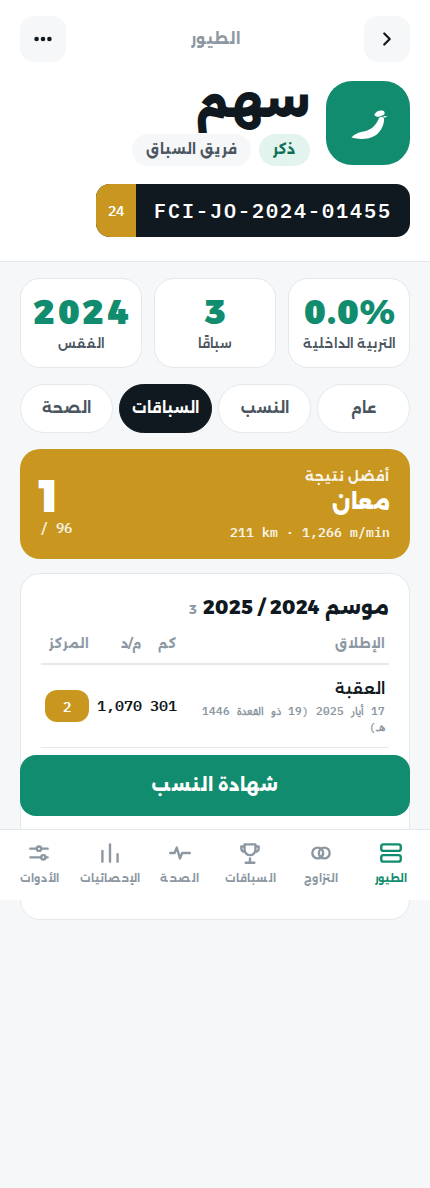
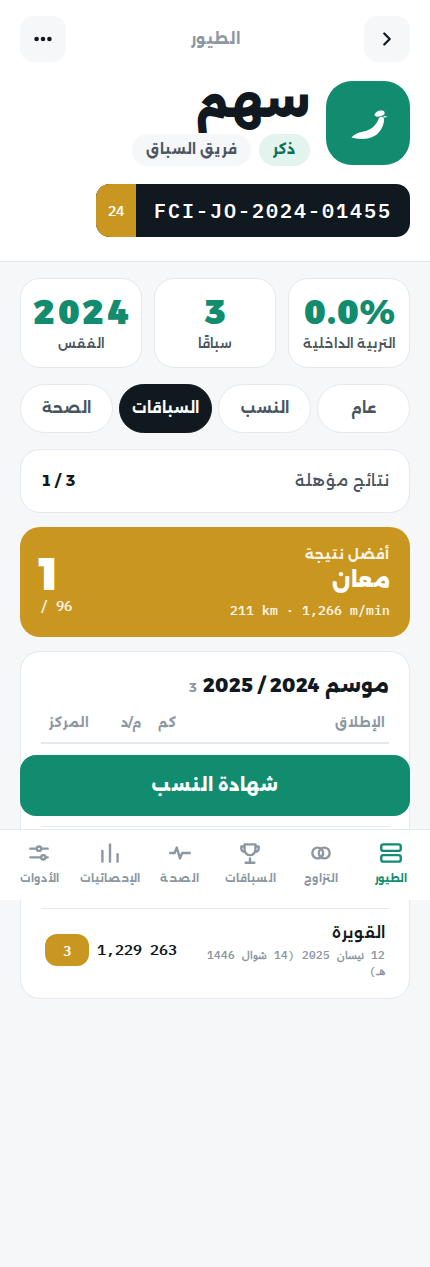
feat(next): apply the 4A acceptance rulings
NAV: nav.breeding renamed to the spec word in i18n.ext.js (deliberate rename
from vanilla's «التربية»); Nav.tsx labels now come from the dictionary.

6. SEASON: one display rule — src/components/season.ts (split-year, 1 July
turnover). Profile race tables and the loft-home eyebrow read it; breeding's
stored `season` stays vanilla's plain year.

8. MEDIA: vanilla's per-photo delete carried into the gallery — a small
danger ✕ on each tile → «تأكيد الحذف؟» → deleteMedia → undo restores
(bird-detail.js:233). Cover photo stays dropped.

10. NOTES: vanilla's add-note in the spec's notes card, saved through
saveBird (a failed validation toasts, never silently drops the note). FCI
per-bird line «نتائج مؤهلة: n / total» as one row at the top of the races
tab (bird-detail.js:131).

13. Mini-tree plate: smaller mono face at ≤430 so real ring lengths fit
(spec-vs-real-data, recorded in the module).

14. OWNERSHIP (kit over spec): the «الخارجية فقط» pill and the «خارجي» row
marker on loft home (birds.js:37, :102). Synonyms/plurals: vanilla wins;
the spec variants that a ruling settled moved from strings.pending.json to
strings.ruled.json — a new guard category accepted silently with the ruling
as the record. Still pending: the spelled-out COI line and the generic
photo-tile label.

Tests: loft_home.py 31 (ownership#5 ×2, ruling 6 eyebrow) · bird_profile.py
38 (ruling 8 ×3, ruling 10 ×2, ruling 6 season labels from the bird's own
[…]

Changed region(s): [[0.0302, 0.0311, 0.9674, 0.7786], [0.4837, 0.7475, 0.5442, 0.7786]]

diff --git a/app/bird/view.tsx b/app/bird/view.tsx
@@ -7,7 +7,8 @@ import { useZajilStore, selectBird, useMediaForBird } from '@/src/db/react';
 import { t, fmtDate, fmtNum, fmtPercent, statusLabel } from '@/src/i18n.ext.js';
 import { inbreeding, ancestorLoss } from '@/src/engine/coi.js';
 import { descendantDepths, pedigreeGrid } from '@/src/engine/pedigree.js';
-import { SyncRow, Loading, MediaPlaceholder, COIValue, BirdLabel, primaryRing, birdLabelText, toast, undoToast, confirmDialog } from '@/src/components';
+import { birdEligibility } from '@/src/engine/fci.js';
+import { SyncRow, Loading, MediaPlaceholder, COIValue, BirdLabel, primaryRing, birdLabelText, toast, undoToast, confirmDialog, seasonStart } from '@/src/components';
 import sh from '@/src/components/shared.module.css';
 import s from './bird.module.css';
 
@@ -33,11 +34,7 @@ const TABS: Array<[Tab, string]> = [['over', 'tab.overview'], ['ped', 'tab.pedig
 const getBird = (id: string) => db.getBird(id) as Bird | undefined;
 const byDateDesc = <T extends { date?: string }>(a: T, b: T) => (b.date || '').localeCompare(a.date || '');
 
-// Season of a race: turns over in July. Interim — the spec's own tables put
-// January–March races in the season that began the previous year; the rule
-// itself is not written anywhere (raised in the 4A report, with loft-home's
-// eyebrow which currently uses the calendar year).
-const seasonOf = (iso?: string) => { const y = +(iso || '').slice(0, 4); if (!y) return 0; return +(iso || '').slice(5, 7) >= 7 ? y : y - 1; };
+// Season of a race: the one display rule (src/components/season.ts, ruled at 4A acceptance).
 // Ruling 4 (4.0): next vaccination = most recent vaccination event + 365 days, labelled an estimate, hidden when none.
 const plus365 = (iso: string) => { const d = new Date(iso + 'T00:00:00'); d.setDate(d.getDate() + 365); return `${d.getFullYear()}-${String(d.getMonth() + 1).padStart(2, '0')}-${String(d.getDate()).padStart(2, '0')}`; };
 // Plate season badge = the two last digits of the primary ring's year (the spec's «24» beside JOR 24 17352).
@@ -57,6 +54,7 @@ export default function BirdView() {
   const [tab, setTab] = useState<Tab>(want && TABS.some(([k]) => k === want) ? want : 'over');
   const [booted, setBooted] = useState(false);
   const [menu, setMenu] = useState(false);
+  const [noteText, setNoteText] = useState('');
   useEffect(() => { db.initDB().then(() => setBooted(true)); }, []);
   const bird = useZajilStore(selectBird(id)) as Bird | null;
   const st = useZajilStore((x) => x);
@@ -120,6 +118,19 @@ export default function BirdView() {
       downloadJSON(payload, `zajil-bird-${ring.replace(/[^\w-]+/g, '_') || id.slice(0, 8)}.json`); toast(t('toast.exported'), { kind: 'success' });
     });
   }
+  // bird-detail.js:233 — per-photo delete with undo (ruling 8: a capability the spec's silence does not remove)
+  async function delMedia(m: Media) {
+    const ok = await confirmDialog({ title: t('confirm.deleteGeneric'), cancelLabel: t('act.cancel'), confirmLabel: t('act.delete'), confirmKind: 'danger' });
+    if (!ok) return;
+    const snap = await db.deleteMedia(m.id);
+    undoToast(t('toast.deleted'), t('act.undo'), async () => { if (!snap) return; await db.restoreMedia(snap); toast(t('toast.undone'), { kind: 'success' }); });
+  }
+  // bird-detail.js:189 — add a note through the write boundary (ruling 10: data entry must not be lost)
+  async function addNote() {
+    const text = noteText.trim(); if (!text) return;
+    const copy = { ...bird!, notes: [...(bird!.notes || []), { id: db.uuid(), at: db.nowISO(), text }] };
+    try { await db.saveBird(copy); setNoteText(''); } catch { toast(t('toast.saveFailed'), { kind: 'error' }); }
+  }
 
   // ── pedigree tab data ──
   const gens = pedigreeGrid(getBird, id, 2) as Slot[][];
@@ -142,7 +153,8 @@ export default function BirdView() {
   // ── races tab data ──
   const best = results.filter((r) => r.position && r.position >= 1).sort((a, b) => (a.position! - b.position!) || byDateDesc(a, b))[0];
   const seasons = new Map<number, Race[]>();
-  for (const r of results) { const sy = seasonOf(r.date); (seasons.get(sy) ?? seasons.set(sy, []).get(sy)!).push(r); }
+  for (const r of results) { const sy = seasonStart(r.date || ''); (seasons.get(sy) ?? seasons.set(sy, []).get(sy)!).push(r); }
+  const elig = birdEligibility(bird, results) as { hasRing: boolean; qualifyingResults: unknown[] };   // bird-detail.js:131 — one row in the races tab (ruling 10)
   const seasonList = [...seasons.entries()].sort((a, b) => b[0] - a[0]);
   const raceLabel = (r: Race) => r.releasePoint?.name || r.raceName || t('raceType.' + (r.raceType || 'training'));
 
@@ -234,10 +246,15 @@ export default function BirdView() {
               <h2>{t('bird.photos')} <span className={s.cnt}>{fmtNum(media.length)}</span></h2>
               {media.length === 0 ? <p className={sh.muted}>{t('common.none')}</p> : (
                 <div className={s.gal} data-testid="gallery">
-                  {media.map((m) => !m.hasBlob ? <MediaPlaceholder key={m.id} kind={m.kind === 'photo' ? 'photo' : 'file'} filename={m.name} />
-                    : !urls[m.id] ? <div key={m.id} className={s.ph} />
-                    : m.kind === 'photo' ? <div key={m.id} className={`${s.ph} ${s.img}`} data-testid="media-photo"><img src={urls[m.id]} alt={t('photo.' + (m.subtype || 'other'))} loading="lazy" /><span>{m.name}</span></div>
-                    : <a key={m.id} className={`${s.ph} ${s.img}`} href={urls[m.id]} download={m.name || 'document'} data-testid="media-file">📄<span>{m.name || 'document'}</span></a>)}
+                  {media.map((m) => (
+                    <div key={m.id} className={s.phwrap} data-testid="media-tile">
+                      {!m.hasBlob ? <MediaPlaceholder kind={m.kind === 'photo' ? 'photo' : 'file'} filename={m.name} />
+                        : !urls[m.id] ? <div className={s.ph} />
+                        : m.kind === 'photo' ? <div className={`${s.ph} ${s.img}`} data-testid="media-photo"><img src={urls[m.id]} alt={t('photo.' + (m.subtype || 'other'))} loading="lazy" /><span>{m.name}</span></div>
+                        : <a className={`${s.ph} ${s.img}`} href={urls[m.id]} download={m.name || 'document'} data-testid="media-file">📄<span>{m.name || 'document'}</span></a>}
+                      <button type="button" className={s.del} aria-label={t('act.delete')} onClick={() => delMedia(m)} data-testid="media-delete">✕</button>
+                    </div>
+                  ))}
                 </div>
               )}
             </div>
@@ -263,7 +280,11 @@ export default function BirdView() {
           <div className={s.card} data-testid="notes">
             <h2>{t('common.notes')}</h2>
             {(bird.notes || []).length === 0 ? <p className={sh.muted}>{t('common.none')}</p>
-              : [...(bird.notes || [])].sort((a, b) => (b.at || '').localeCompare(a.at || '')).map((n, i) => <p key={n.id || i} className={s.prose}><span className={sh.muted}>{fmtDate(n.at, { withTime: true })} — </span><bdi>{n.text}</bdi></p>)}
+              : [...(bird.notes || [])].sort((a, b) => (b.at || '').localeCompare(a.at || '')).map((n, i) => <p key={n.id || i} className={s.prose} data-testid="note"><span className={sh.muted}>{fmtDate(n.at, { withTime: true })} — </span><bdi>{n.text}</bdi></p>)}
+            <div className={s.noteform}>
+              <textarea rows={2} value={noteText} onChange={(e) => setNoteText(e.target.value)} aria-label={t('bird.addNote')} data-testid="note-input" />
+              <button type="button" className={`${sh.btn} ${sh.save}`} onClick={addNote} disabled={!noteText.trim()} data-testid="note-add">+ {t('bird.addNote')}</button>
+            </div>
           </div>
         </section>
 
@@ -317,6 +338,9 @@ export default function BirdView() {
         </section>
 
         <section className={s.panel} id="p-race" role="tabpanel" aria-labelledby="t-race" hidden={tab !== 'race'} data-testid="panel-race">
+          <div className={s.card} data-testid="fci-row"><div className={s.rows}>
+            <div className={s.row}><span className={s.k}>{t('fci.qualifying')}</span><span className={`${s.v} ${s.data}`}>{fmtNum(elig.qualifyingResults.length)} / {fmtNum(results.length)}</span></div>
+          </div></div>
           {results.length === 0 ? <div className={s.card}><p className={sh.muted}>{t('race.noRaces')}</p></div> : (
             <>
               {best && (

diff --git a/app/birds/view.tsx b/app/birds/view.tsx
@@ -5,7 +5,7 @@ import * as db from '@/src/db.js';
 import { useZajilStore, selectBirds } from '@/src/db/react';
 import { t, fmtNum, statusLabel } from '@/src/i18n.ext.js';
 import { ringKey } from '@/src/engine/rings.js';
-import { SyncRow, Empty, toast, primaryRing } from '@/src/components';
+import { SyncRow, Empty, toast, primaryRing, seasonLabel } from '@/src/components';
 import sh from '@/src/components/shared.module.css';
 import s from './birds.module.css';
 
@@ -63,6 +63,7 @@ export default function BirdsView() {
     if (qq) { const rk = ringKey(qq); rs = rs.filter((r) => searchText(r.b).includes(qq) || (rk && (r.b.rings || []).some((x) => ringKey(x as never).includes(rk)))); }
     if (filter === 'm' || filter === 'f') rs = rs.filter((r) => r.sexK === filter);
     if (filter === 'race' || filter === 'breed') rs = rs.filter((r) => r.stK === filter);
+    if (filter === 'ext') rs = rs.filter((r) => !!r.b.external);          // birds.js:37 — ruling 14 (4A): kit over spec
     if (year) rs = rs.filter((r) => r.year === year);
     return rs;
   }, [rows, q, filter, year]);
@@ -75,7 +76,6 @@ export default function BirdsView() {
 
   const m = rows.filter((r) => r.sexK === 'm').length, f = rows.filter((r) => r.sexK === 'f').length;
   const loft = db.currentLoft() as { name?: string } | null;
-  const yr = new Date().getFullYear();   // season eyebrow: year / year+1, the same source as breeding's season default (interim; spec silent on the rule)
   const empty = booted && rows.length === 0;
   const onSort = (k: SortKey) => { if (k === sortK) setDesc(!desc); else { setSortK(k); setDesc(k === 'year' || k === 'res'); } };
   const pill = (label: string, active: boolean, onClick: () => void, extra: Record<string, string> = {}) => (
@@ -84,13 +84,15 @@ export default function BirdsView() {
   const Plate = ({ ring }: { ring: string }) => <span className={s.plate}><span className={s.yr}>{ring.split(' ')[1] ?? ''}</span><span className={s.no}>{ring}</span></span>;
   const Sx = ({ k }: { k: Row['sexK'] }) => <span className={`${s.sx} ${s[k]}`} data-sex={k === 'm' ? 'cock' : k === 'f' ? 'hen' : 'unknown'} aria-label={t(sexKey[k])}><span className={s.g}>{sexIcon[k]}</span>{t(sexKey[k])}</span>;
   const St = ({ r }: { r: Row }) => <span className={`${s.st} ${s[r.stK]}`} data-testid="status-pill">{r.stLabel}</span>;
+  // birds.js:102 chip-ext — the external marker, ruled in at 4A acceptance (kit over spec: reference birds are a real feature)
+  const Ext = () => <span className={s.ext} data-testid="ext-tag">{t('bird.externalShort')}</span>;
   const Res = ({ r }: { r: Row }) => r.last ? <span className={s.res}><span className={`${s.pl} ${r.last.pl <= 10 ? s.top : ''}`}>{fmtNum(r.last.pl, { group: false })}</span><span className={s.w}>{r.last.w}</span></span> : <span className={`${s.res} ${s.none}`}>{t('race.noneShort')}</span>;
 
   return (
     <section className={s.screen}>
       <div className={s.lofthead}>
         <div className={s.headrow}>
-          <div><div className={s.eyebrow}>{t('loft.season', { a: yr, b: yr + 1 })}</div><h1>{loft?.name || t('loft.unnamed')}</h1>
+          <div><div className={s.eyebrow} data-testid="season-eyebrow">{seasonLabel()}</div><h1>{loft?.name || t('loft.unnamed')}</h1>
             <div className={s.count} data-testid="count-line">{empty ? t('empty.firstRun.title') : !booted ? '' : t('loft.countLine', { n: fmtNum(rows.length), m: fmtNum(m), f: fmtNum(f) })}</div></div>
           {!empty && booted && (
             <div className={s.tools}>
@@ -113,6 +115,7 @@ export default function BirdsView() {
             {pill(t('filter.females'), filter === 'f', () => { setFilter('f'); setYear(null); }, { 'data-filter': 'f' })}
             {pill(statusLabel('race team'), filter === 'race', () => { setFilter('race'); setYear(null); }, { 'data-filter': 'race' })}
             {pill(statusLabel('breeder'), filter === 'breed', () => { setFilter('breed'); setYear(null); }, { 'data-filter': 'breed' })}
+            {pill(t('filter.externalOnly'), filter === 'ext', () => { setFilter('ext'); setYear(null); }, { 'data-filter': 'ext' })}
             {years.map((y) => pill(y, year === y, () => { setYear(year === y ? null : y); setFilter('all'); }, { 'data-year': y }))}
           </div>
           <SyncRow />
@@ -122,7 +125,7 @@ export default function BirdsView() {
                 <div className={s.yearlbl} data-testid="year-label"><span className={s.y}>{t('loft.generation', { y })}</span><span className={s.c}>{fmtNum(rs.length)}</span></div>
                 {rs.map((r) => (
                   <Link key={r.b.id} href={`/bird?id=${r.b.id}`} className={`${s.brow} ${r.stK === 'gone' ? s.gone : ''}`} data-testid="bird-row">
-                    <span className={s.mid}><span className={s.nm}>{r.name || r.ring || r.b.id.slice(0, 8)}</span><span className={s.sub}>{r.ring && <Plate ring={r.ring} />}<Sx k={r.sexK} /><St r={r} /></span></span>
+                    <span className={s.mid}><span className={s.nm}>{r.name || r.ring || r.b.id.slice(0, 8)}</span><span className={s.sub}>{r.ring && <Plate ring={r.ring} />}<Sx k={r.sexK} /><St r={r} />{r.b.external && <Ext />}</span></span>
                     <svg className={s.chev} viewBox="0 0 24 24" aria-hidden="true"><path d="M15 6l-6 6 6 6" /></svg>
                   </Link>
                 ))}
@@ -140,7 +143,7 @@ export default function BirdsView() {
                 {sorted.map((r) => (
                   <tr key={r.b.id} tabIndex={0} className={r.stK === 'gone' ? s.gone : ''} data-testid="table-row" onClick={() => { window.location.href = `/bird?id=${r.b.id}`; }}>
                     <td className={s.ltr}>{r.ring ? <Plate ring={r.ring} /> : '—'}</td>
-                    <td className={s.nm} data-testid="cell-name">{r.name}</td>
+                    <td className={s.nm} data-testid="cell-name">{r.name}{r.b.external && <> <Ext /></>}</td>
                     <td><Sx k={r.sexK} /></td>
                     <td><St r={r} /></td>
                     <td className={`${s.yr} ${s.ltr}`}>{r.year}</td>

diff --git a/components/Nav.tsx b/components/Nav.tsx
@@ -1,41 +1,44 @@
 'use client';
 import Link from 'next/link';
 import { usePathname } from 'next/navigation';
+import { t } from '@/src/i18n.ext.js';
 import s from './Nav.module.css';
 
 /**
  * The six ruled destinations — kit v3.1 NAVIGATION NOTE, RULED 2026-09-02.
  * No home tab, no sign-in tab. Icons are the spec's own SVG paths, verbatim.
+ * Labels come from the dictionary (nav.*); nav.breeding is the ruled rename
+ * «التزاوج» carried by i18n.ext.js, so the shell and every screen agree.
  *
  * `owns` lists the record routes that light a tab, mirroring the vanilla
  * router (js/app.js:119): a bird, its pedigree and its certificate belong to
  * الطيور; a pair belongs to التزاوج.
  */
 const TABS = [
-  { href: '/birds',    owns: ['/bird', '/pedigree', '/cert'], label: 'الطيور',
+  { href: '/birds',    owns: ['/bird', '/pedigree', '/cert'], label: 'nav.birds',
     icon: <><rect x="3" y="4" width="18" height="6" rx="2"/><rect x="3" y="14" width="18" height="6" rx="2"/></> },
-  { href: '/breeding', owns: ['/pair'], label: 'التزاوج',
+  { href: '/breeding', owns: ['/pair'], label: 'nav.breeding',
     icon: <><circle cx="9" cy="12" r="5"/><circle cx="15" cy="12" r="5"/></> },
-  { href: '/races',    owns: [], label: 'السباقات',
+  { href: '/races',    owns: [], label: 'nav.races',
     icon: <path d="M8 21h8M12 17v4M7 4h10v5a5 5 0 0 1-10 0zM7 6H4v2a3 3 0 0 0 3 3M17 6h3v2a3 3 0 0 1-3 3"/> },
-  { href: '/health',   owns: [], label: 'الصحة',
+  { href: '/health',   owns: [], label: 'nav.health',
     icon: <path d="M3 12h4l2-5 3 10 2-5h7"/> },
-  { href: '/stats',    owns: [], label: 'الإحصائيات',
+  { href: '/stats',    owns: [], label: 'nav.stats',
     icon: <path d="M5 20V10M12 20V4M19 20v-7"/> },
-  { href: '/tools',    owns: [], label: 'الأدوات',
+  { href: '/tools',    owns: [], label: 'nav.tools',
     icon: <><path d="M4 8h6M14 8h6M4 16h10M18 16h2"/><circle cx="12" cy="8" r="2"/><circle cx="16" cy="16" r="2"/></> },
 ];
 
-function isOn(pathname: string, t: (typeof TABS)[number]) {
-  return pathname === t.href || pathname.startsWith(t.href + '/') ||
-    t.owns.some((p) => pathname === p || pathname.startsWith(p + '/'));
+function isOn(pathname: string, tab: (typeof TABS)[number]) {
+  return pathname === tab.href || pathname.startsWith(tab.href + '/') ||
+    tab.owns.some((p) => pathname === p || pathname.startsWith(p + '/'));
 }
 
 export default function Nav() {
   const pathname = usePathname() ?? '';
-  const items = TABS.map((t) => (
-    <Link key={t.href} href={t.href} className={isOn(pathname, t) ? s.on : undefined}>
-      <svg viewBox="0 0 24 24" aria-hidden="true">{t.icon}</svg>{t.label}
+  const items = TABS.map((tab) => (
+    <Link key={tab.href} href={tab.href} className={isOn(pathname, tab) ? s.on : undefined}>
+      <svg viewBox="0 0 24 24" aria-hidden="true">{tab.icon}</svg>{t(tab.label)}
     </Link>
   ));
   return (

diff --git a/app/bird/bird.module.css b/app/bird/bird.module.css
@@ -191,3 +191,16 @@
 /* vanilla rings (FCI-JO-2023-00871) are longer than the spec's mock (JOR 24 17352): the plate keeps one line and clips */
 .plate .num{ white-space:nowrap; overflow:hidden; text-overflow:ellipsis; min-width:0; }
 .n1 .plate{ max-width:100%; }
+/* ruling 8 (4A acceptance): vanilla's per-photo delete — a small danger affordance on the tile */
+.phwrap{ position:relative; min-width:0; }
+.phwrap > *:first-child{ width:100%; }
+.del{ position:absolute; top:6px; inset-inline-end:6px; width:28px; height:28px; border:none; border-radius:999px; background:var(--surface); color:var(--danger); font-weight:900; font-size:13px; cursor:pointer; display:grid; place-items:center; box-shadow:inset 0 0 0 1px var(--line); }
+/* ruling 10 (4A acceptance): vanilla's add-note inside the spec's notes card */
+.noteform{ display:flex; flex-direction:column; gap:10px; margin-top:14px; }
+.noteform textarea{ width:100%; border:2px solid var(--line); border-radius:var(--r-btn); padding:12px 14px; font-family:var(--f); font-size:15px; resize:vertical; background:var(--page); color:var(--ink); }
+.noteform textarea:focus{ outline:none; border-color:var(--brand); background:var(--surface); }
+/* ruling 13 (4A acceptance): real rings (JO-2026-12345) are longer than the spec's mock — a smaller plate face at phone width; spec-vs-real-data */
+@media (max-width:430px){
+  .n1 .plate .num{ font-size:10px; letter-spacing:0; padding:5px 7px; }
+  .n1 .plate .season{ font-size:9px; padding:0 5px; }
+}

diff --git a/src/components/season.ts b/src/components/season.ts
@@ -1,0 +1,20 @@
+import { t } from '@/src/i18n.ext.js';
+
+// ONE season rule, everywhere a season is DISPLAYED (ruled at 4A acceptance,
+// item 6): split-year «2026 / 2027», turning over on 1 July. Profile race
+// tables, the loft-home eyebrow, races and stats all read these. Breeding's
+// stored `season` field stays vanilla's plain year — data, not display.
+
+/** Start year of the season a date falls in; 0 when the date is unusable. */
+export function seasonStart(d: string | Date = new Date()): number {
+  const dt = typeof d === 'string' ? new Date(d.slice(0, 10) + 'T00:00:00') : d;
+  if (isNaN(dt.getTime())) return 0;
+  const y = dt.getFullYear();
+  return dt.getMonth() + 1 >= 7 ? y : y - 1;
+}
+
+/** «موسم 2026 / 2027» for the season a date falls in (today by default). */
+export function seasonLabel(d?: string | Date): string {
+  const a = seasonStart(d);
+  return a ? t('loft.season', { a, b: a + 1 }) : '—';
+}

diff --git a/src/i18n.ext.js b/src/i18n.ext.js
@@ -83,6 +83,12 @@ export const EXT = {
   'col.release':              { ar: 'الإطلاق', en: 'Release' },
   'health.next':              { ar: 'التطعيم القادم', en: 'Next vaccination' },
   'health.next.estimate':     { ar: 'تقديري — سنة من آخر تطعيم', en: 'Estimate — one year after the last vaccination' },
+
+  // ── rulings at 4A acceptance ──
+  // nav.breeding: a DELIBERATE RENAME from vanilla's «التربية». Every approved
+  // spec and the kit NAVIGATION NOTE say «التزاوج»; ruled at 4A acceptance.
+  // EXT wins over the vanilla dictionary, so every t('nav.breeding') follows.
+  'nav.breeding':             { ar: 'التزاوج', en: 'Breeding' },
 };
 
 function interpolate(s, params) {

diff --git a/app/birds/birds.module.css b/app/birds/birds.module.css
@@ -134,3 +134,5 @@ tr.gone td.nm{ color:var(--ink-3); }
 .table{ display:block; }
 .empty{ padding-top:64px; }
 }
+/* ruling 14 (4A acceptance): the external marker — vanilla's chip-ext (birds.js:102) carried into the spec's row; kit over spec */
+.ext{ display:inline-flex; align-items:center; height:30px; padding:0 10px; border-radius:999px; font-size:12px; font-weight:800; white-space:nowrap; background:var(--page); color:var(--ink-3); border:1px dashed var(--ink-3); }

diff --git a/src/components/index.ts b/src/components/index.ts
@@ -7,3 +7,4 @@ export { default as Field } from './Field';
 export { default as Notice } from './Notice';
 export { default as MediaPlaceholder } from './MediaPlaceholder';
 export { BirdLabel, SexChip, COIValue, Plate, primaryRing, birdLabelText, sexIcon } from './BirdBits';
+export { seasonStart, seasonLabel } from './season';

diff --git a/tests/e2e/screens/bird_profile.py b/tests/e2e/screens/bird_profile.py
@@ -60,10 +60,22 @@ try:
         # ── overview: verified notice, gallery with the elsewhere placeholder, basics, notes read-only ──
         check('«سجل موثق» notice present', 'سجل موثق' in pg.locator('[data-testid=verified-notice]').inner_text())
         check('gallery shows the blobless photo as «الصورة على جهاز آخر»', pg.locator('[data-testid=gallery] [data-testid=media-elsewhere]').count() == 1)
+        # ruling 8 (4A acceptance): per-photo delete with undo (bird-detail.js:233)
+        pg.click('[data-testid=media-tile] [data-testid=media-delete]'); pg.wait_for_timeout(150)
+        check('[ruling 8] tile ✕ asks «تأكيد الحذف؟»', 'تأكيد الحذف' in pg.locator('[data-testid=dialog]').inner_text())
+        pg.click('[data-testid=dialog-confirm]'); pg.wait_for_timeout(400)
+        check('[ruling 8] the media row is gone from the gallery and the store', pg.locator('[data-testid=media-tile]').count() == 0 and pg.evaluate("async (id) => (await window.__zajilDb.mediaForBird(id)).length", ids['barq']) == 0)
+        pg.click('[data-testid=toast-action]'); pg.wait_for_timeout(400)
+        check('[ruling 8] undo restores the row into the gallery', pg.locator('[data-testid=media-tile] [data-testid=media-elsewhere]').count() == 1)
+        pg.wait_for_timeout(4500)   # let the confirmation toast expire before the screenshots
         rows = pg.locator('[data-testid=basics] [data-testid^=row-]').count()
         check('basic details rows (loft · colour · hatch · sire · dam · added)', rows >= 5, rows)
         check('sire / dam are links to their profiles', pg.locator('[data-testid=row-sire] a').get_attribute('href').startswith('/bird?id=') and pg.locator('[data-testid=row-dam] a').get_attribute('href').startswith('/bird?id='))
-        check('notes card is read-only on the profile (spec) — no add-note control', pg.locator('[data-testid=notes]').count() == 1 and pg.locator('[data-testid=notes] textarea').count() == 0)
+        # ruling 10 (4A acceptance): vanilla's add-note carried into the spec's notes card — saved through the write boundary
+        n_notes = pg.locator('[data-testid=note]').count()
+        pg.fill('[data-testid=note-input]', 'ملاحظة اختبار — من البروفايل'); pg.click('[data-testid=note-add]'); pg.wait_for_timeout(400)
+        saved = pg.evaluate("(id) => (window.__zajilDb.getBird(id).notes || []).some(n => n.text === 'ملاحظة اختبار — من البروفايل')", ids['barq'])
+        check('[ruling 10] add-note appends to bird.notes and the card re-renders', saved and pg.locator('[data-testid=note]').count() == n_notes + 1 and pg.locator('[data-testid=note-input]').input_value() == '', pg.locator('[data-testid=note]').count())
         for w in (430, 900, 1400):
             pg.set_viewport_size({'width': w, 'height': 900}); pg.wait_for_timeout(150); pg.screenshot(path=f'{FID}/overview-{w}.png', full_page=True)
         pg.set_viewport_size({'width': 430, 'height': 900})
@@ -88,6 +100,14 @@ try:
         racer = h.evaluate("() => { const db = window.__zajilDb; const n = new Map(); for (const r of db.state.raceResults.values()) n.set(r.birdId, (n.get(r.birdId) || 0) + 1); return [...n.entries()].sort((a, b) => b[1] - a[1])[0]; }")
         pg.goto(f"{ROOT}bird.html?id={racer[0]}&tab=race", wait_until='load'); pg.wait_for_selector('[data-testid=race-best]', timeout=6000)
         check('races tab (bird with results): best result + ≥1 season table, ranks as pills', pg.locator('[data-testid=season-card]').count() >= 1 and pg.locator('[data-testid=race-row]').count() == racer[1], racer[1])
+        # ruling 6: one season rule — split-year label with the 1 July turnover, computed here from the bird's own result dates
+        exp = pg.evaluate("(id) => { const s = new Set(); for (const r of window.__zajilDb.state.raceResults.values()) if (r.birdId === id && r.date) { const y = +r.date.slice(0, 4), m = +r.date.slice(5, 7); s.add(m >= 7 ? y : y - 1); } return [...s].sort((a, b) => b - a); }", racer[0])
+        heads = [h.strip() for h in pg.locator('[data-testid=season-card] h2').all_inner_texts()]
+        check('[ruling 6] season cards labelled «موسم a / a+1» by the July rule, newest first', [h.split()[1] for h in heads] == [str(a) for a in exp], heads)
+        # ruling 10: the FCI per-bird line as one row in the races tab (bird-detail.js:131)
+        q = pg.evaluate("(id) => { const db = window.__zajilDb, e = window.__zajilEngine; const rs = [...db.state.raceResults.values()].filter(r => r.birdId === id); const el = e.fci.birdEligibility(db.getBird(id), rs); return [el.qualifyingResults.length, rs.length]; }", racer[0])
+        fci = pg.locator('[data-testid=fci-row]').inner_text()
+        check('[ruling 10] «نتائج مؤهلة: n / total» row present with the engine\'s numbers', 'نتائج مؤهلة' in fci and f'{q[0]} / {q[1]}' in fci, fci.replace('\n', ' '))
         for w in (430, 900, 1400):
             pg.set_viewport_size({'width': w, 'height': 900}); pg.wait_for_timeout(150); pg.screenshot(path=f'{FID}/races-{w}.png', full_page=True)
         pg.set_viewport_size({'width': 430, 'height': 900})

diff --git a/tests/e2e/screens/loft_home.py b/tests/e2e/screens/loft_home.py
@@ -82,7 +82,7 @@ try:
 
         # ── filter pills (spec: الكل · ذكور · إناث · فريق السباق · تربية · years) ──
         pills = pg.locator('[data-testid=filter-pill]').all_inner_texts()
-        check('pills: الكل ذكور إناث فريق السباق تربية + generation years', pills[:5] == ['الكل', 'ذكور', 'إناث', 'فريق السباق', 'تربية'] and any(t.isdigit() for t in pills[5:]), pills[:7])
+        check('pills: الكل ذكور إناث فريق السباق تربية الخارجية فقط + generation years', pills[:6] == ['الكل', 'ذكور', 'إناث', 'فريق السباق', 'تربية', 'الخارجية فقط'] and any(t.isdigit() for t in pills[6:]), pills[:8])
         pg.click('[data-testid=filter-pill][data-filter=f]'); pg.wait_for_timeout(200)
         sexes = pg.locator('[data-testid=bird-row] [data-sex]').evaluate_all("els => els.map(e => e.dataset.sex)")
         check('pill «إناث» → only hens listed', len(sexes) > 0 and set(sexes) == {'hen'}, set(sexes))
@@ -94,6 +94,16 @@ try:
         check(f'year pill {y} → one generation group only', pg.locator('[data-testid=year-label]').count() == 1 and y in pg.locator('[data-testid=year-label]').first.inner_text())
         pg.click('[data-testid=filter-pill][data-filter=all]'); pg.wait_for_timeout(200)
         check('«الكل» restores every row', pg.locator('[data-testid=bird-row]').count() == n_rows)
+        # ── [ownership#5] the ownership filter splits the register; the external marker on rows (ruling 14: kit over spec) ──
+        n_ext = pg.evaluate("() => window.__zajilDb.allBirds().filter(b => b.external).length")
+        pg.click('[data-testid=filter-pill][data-filter=ext]'); pg.wait_for_timeout(200)
+        check('[ownership#5] pill «الخارجية فقط» lists exactly the external birds, each carrying the «خارجي» marker', n_ext > 0 and pg.locator('[data-testid=bird-row]').count() == n_ext and pg.locator('[data-testid=bird-row] [data-testid=ext-tag]').count() == n_ext, f'{n_ext} external')
+        pg.click('[data-testid=filter-pill][data-filter=all]'); pg.wait_for_timeout(200)
+        # scoped to the phone rows: the desktop table (hidden at 430 by CSS) also carries the marker in its name cell
+        check('[ownership#5] owned + external = total; markers only on external rows', pg.locator('[data-testid=bird-row]').count() == n_rows and pg.locator('[data-testid=bird-row] [data-testid=ext-tag]').count() == n_ext, f"{pg.locator('[data-testid=bird-row] [data-testid=ext-tag]').count()} markers / {n_ext} external")
+        # ── ruling 6: the season eyebrow follows the one display rule (1 July turnover) ──
+        y, m = pg.evaluate("() => { const d = new Date(); return [d.getFullYear(), d.getMonth() + 1]; }"); a = y if m >= 7 else y - 1
+        check('[ruling 6] season eyebrow «موسم a / a+1» with the July turnover', pg.locator('[data-testid=season-eyebrow]').inner_text().strip() == f'موسم {a} / {a + 1}', pg.locator('[data-testid=season-eyebrow]').inner_text())
 
         # ── [change_events#1, #5] external write refreshes the register, scroll preserved ──
         pg.evaluate("window.scrollTo(0, 600)"); pg.wait_for_timeout(100)

diff --git a/README.md b/README.md
@@ -19,6 +19,19 @@ until a cutover ruling.
   the build accepts but reports as ⚠). Each guard was proved to fire by
   reintroducing its violation — see the Phase 0.5 and 4A-guards commits.
 - `output: 'export'` — no server, ever. Record views take `?id=`, never `[id]`.
+- **Rulings at 4A acceptance** (each recorded where it applies):
+  `nav.breeding` is a deliberate rename to «التزاوج» (i18n.ext.js overrides
+  vanilla's «التربية»; every spec and the kit say so) · ONE season rule
+  everywhere a season is displayed — split-year with a 1 July turnover
+  (`src/components/season.ts`); breeding's stored `season` stays vanilla's
+  plain year · ownership is kit-over-spec: the external marker and the
+  «الخارجية فقط» pill are on loft home although loft-home-v1 draws neither ·
+  capabilities the specs are silent on are carried, not dropped: per-photo
+  delete, add-note, the FCI per-bird line · the mini-tree plate shrinks at
+  phone width for real ring lengths (spec-vs-real-data) · spec wording that a
+  ruling settled lives in `guards/strings.ruled.json` (accepted silently, the
+  ruling is the record); `strings.pending.json` holds only what still awaits
+  one.
 - Everything outside `next/` is read-only during the port. `next/` imports
   nothing from `../js`, `../css` or `../tools` (guarded); the engine and the
   dataset id mapper are byte-identical copies under `src/engine/` and `tests/`.
